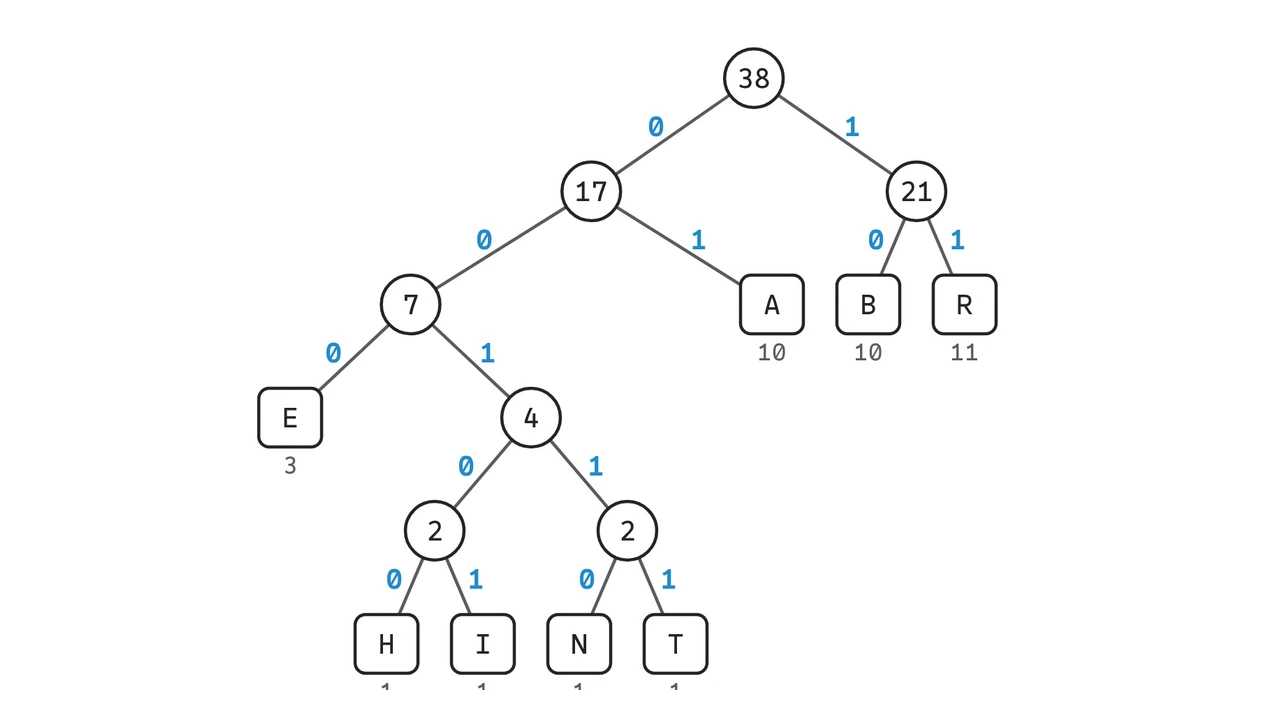
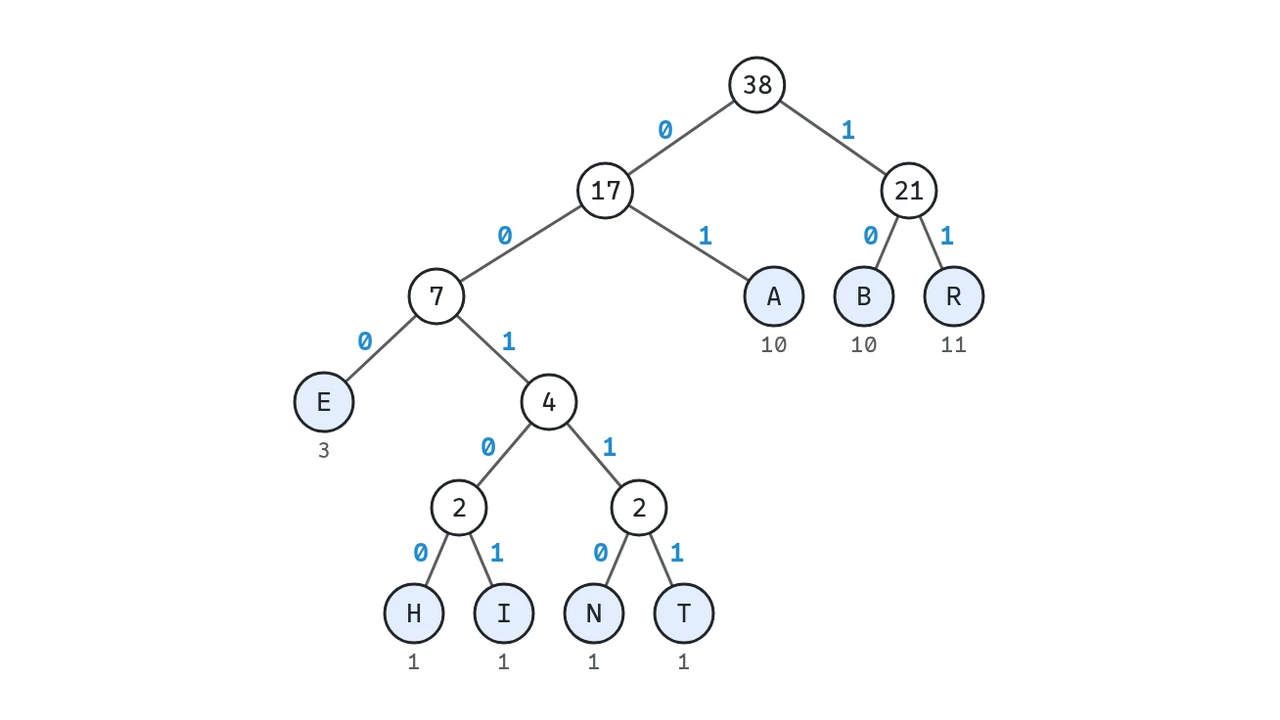
Huffman: round leaves, so every edge visibly ends at a node's centre

diff --git a/src/content/huffman/huffman.md b/src/content/huffman/huffman.md
@@ -45,12 +45,15 @@ duration: 2 Doppelstunden
         stroke: var(--bs-secondary-color);
         stroke-width: 1.5;
     }
-    .hf-forest .node circle, .hf-forest .leaf rect {
+    .hf-forest .node circle, .hf-forest .leaf circle {
         fill: var(--bs-body-bg);
         stroke: var(--bs-body-color);
         stroke-width: 1.5;
     }
-    .hf-forest .pick circle, .hf-forest .pick rect {
+    .hf-forest .leaf circle {
+        fill: color-mix(in srgb, var(--bs-primary) 12%, var(--bs-body-bg));
+    }
+    .hf-forest .pick circle {
         stroke: #bc2326;
         stroke-width: 3;
     }
@@ -447,7 +450,9 @@ document.addEventListener('DOMContentLoaded', function() {
             const n = p.node;
             const pick = picks.some((t) => key(t) === key(n)) ? ' pick' : '';
             if (!n.left) {
-                out.push(`<g class='leaf${pick}' opacity='${p.alpha}'><rect x='${p.x - 15}' y='${p.y - 14}' width='30' height='28' rx='5'/><text x='${p.x}' y='${p.y}'>${esc(label(n.byte))}</text><text class='weight' x='${p.x}' y='${p.y + 23}'>${n.weight}</text></g>`);
+                // Round like the inner nodes, so every edge ends in the middle
+                // of a curve, aimed at the centre; tinted to tell them apart.
+                out.push(`<g class='leaf${pick}' opacity='${p.alpha}'><circle cx='${p.x}' cy='${p.y}' r='15'/><text x='${p.x}' y='${p.y}'>${esc(label(n.byte))}</text><text class='weight' x='${p.x}' y='${p.y + 25}'>${n.weight}</text></g>`);
             } else {
                 out.push(`<g class='node${pick}' opacity='${p.alpha}'><circle cx='${p.x}' cy='${p.y}' r='14'/><text x='${p.x}' y='${p.y}'>${n.weight}</text></g>`);
             }

diff --git a/CHANGELOG.md b/CHANGELOG.md
@@ -568,6 +568,11 @@ Jeder Eintrag sagt, was sich für Lernende, Lehrkräfte und Betreibende ändert.
 
 ### Geändert
 
+- Huffman: Die Blätter im Baum sind jetzt rund wie die inneren Knoten, leicht
+  getönt, damit man sie unterscheidet. So endet jede Kante sichtbar in der
+  Mitte eines Kreises statt an der Ecke eines Kästchens; das Bild auf der
+  Karte ist mit dem neuen Baum erzeugt.
+
 - `check-task: ID <- ANTWORT` in Screenshot-Rezepten trägt eine Antwort in
   die Karte ein, bevor geprüft wird: einen Befehl, eine Zahl, eine Auswahl.
   So prüfen Rezepte auch Befehls- und Antwortaufgaben. Beispiele in
